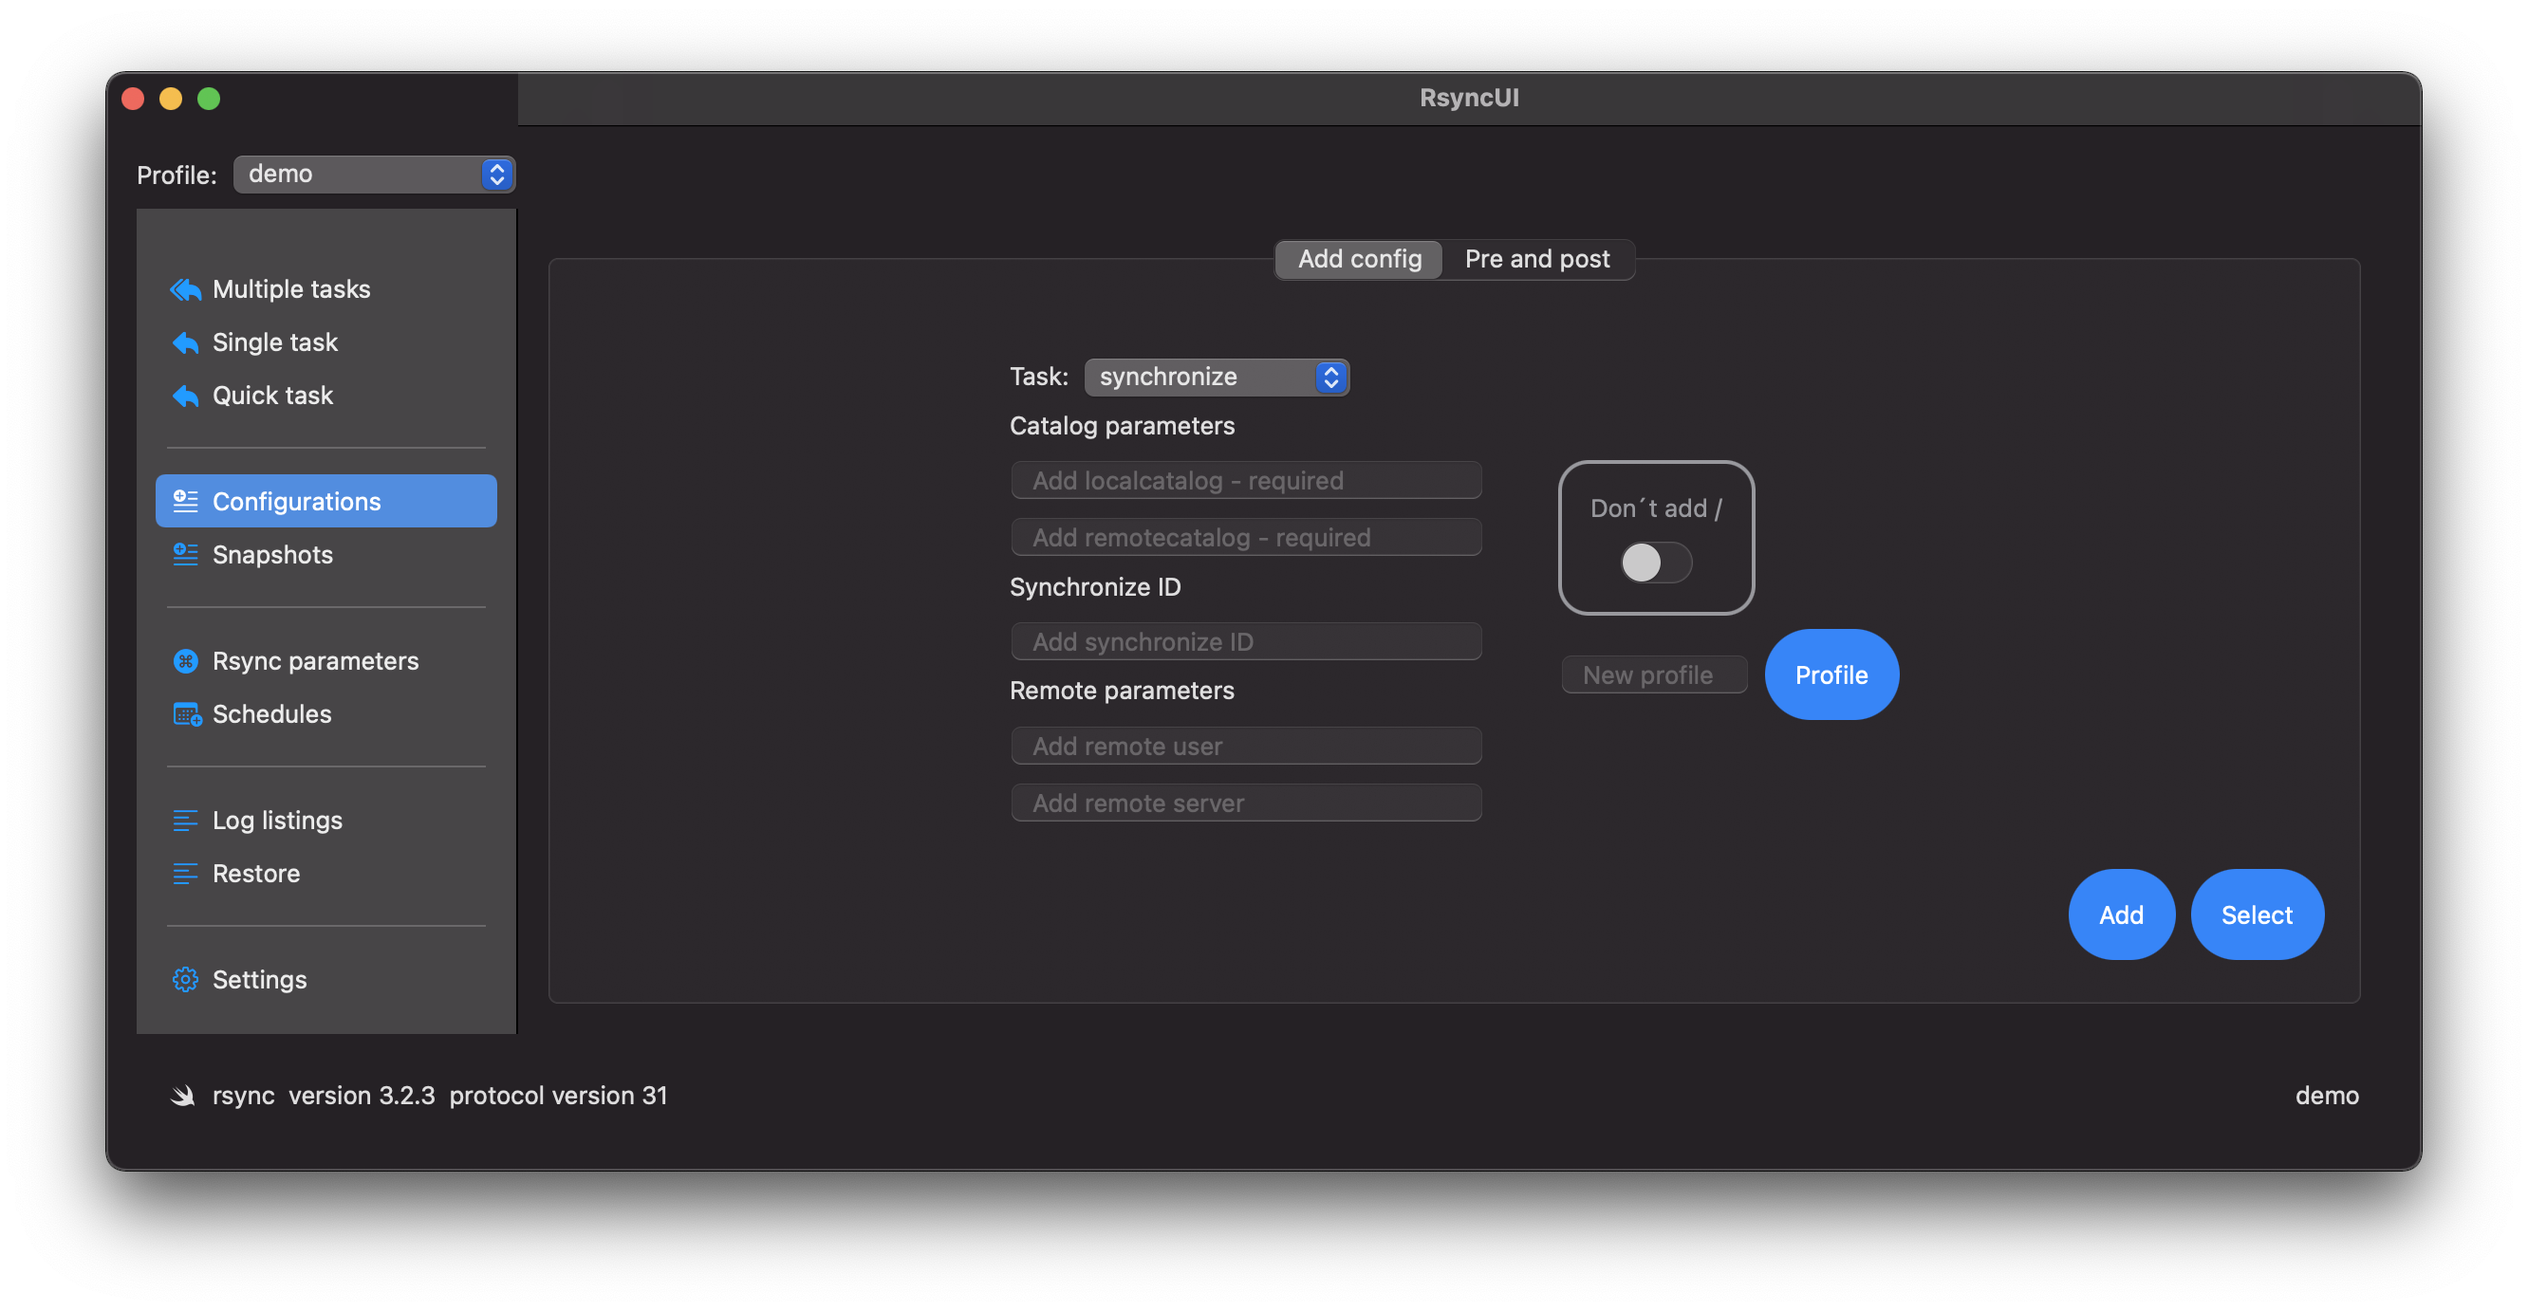
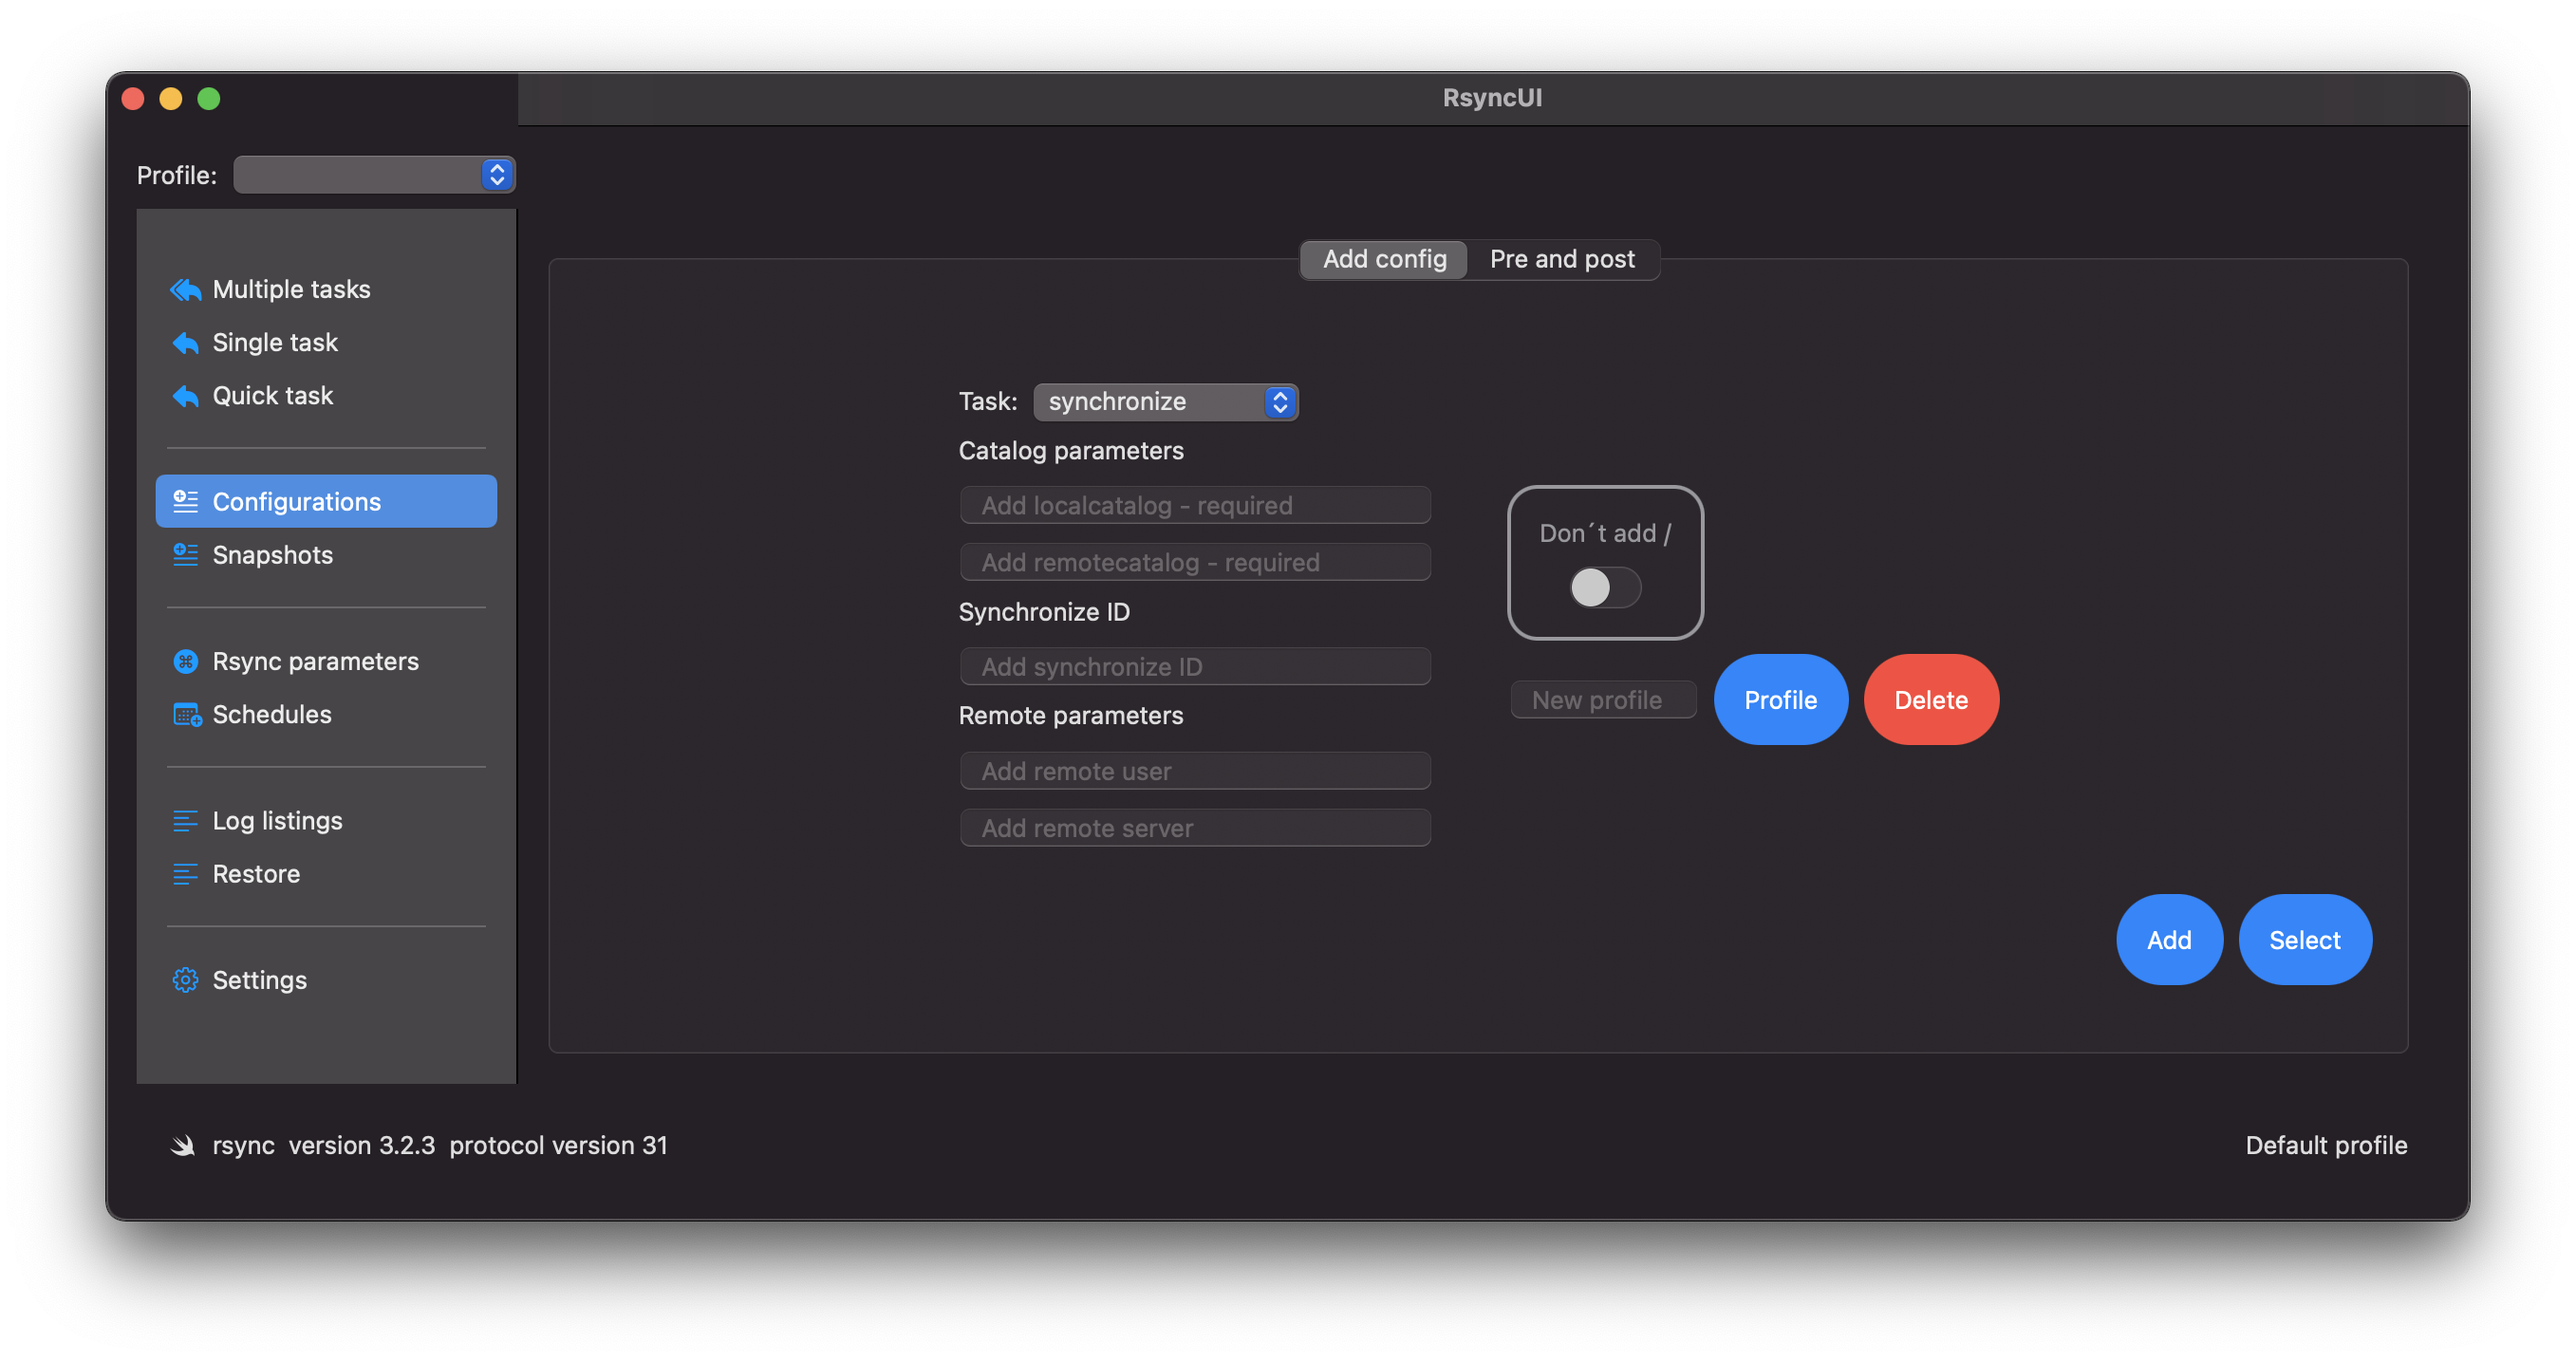
update

diff --git a/content/post/AddConfigurations.md b/content/post/AddConfigurations.md
@@ -17,7 +17,8 @@ The following actions within this view:
 
 - `Add` - will add a new configuration
 - `Select` - will select a configuration for update, the Add label will change to `Update`
-- `Profile` - add a new profile name and add the profile
+- `Profile` - create a new profile, add and select the profile
+- `Delete` - delete the selected profile, default profile cannot be deleted
 
 ## Sample configuration
 
